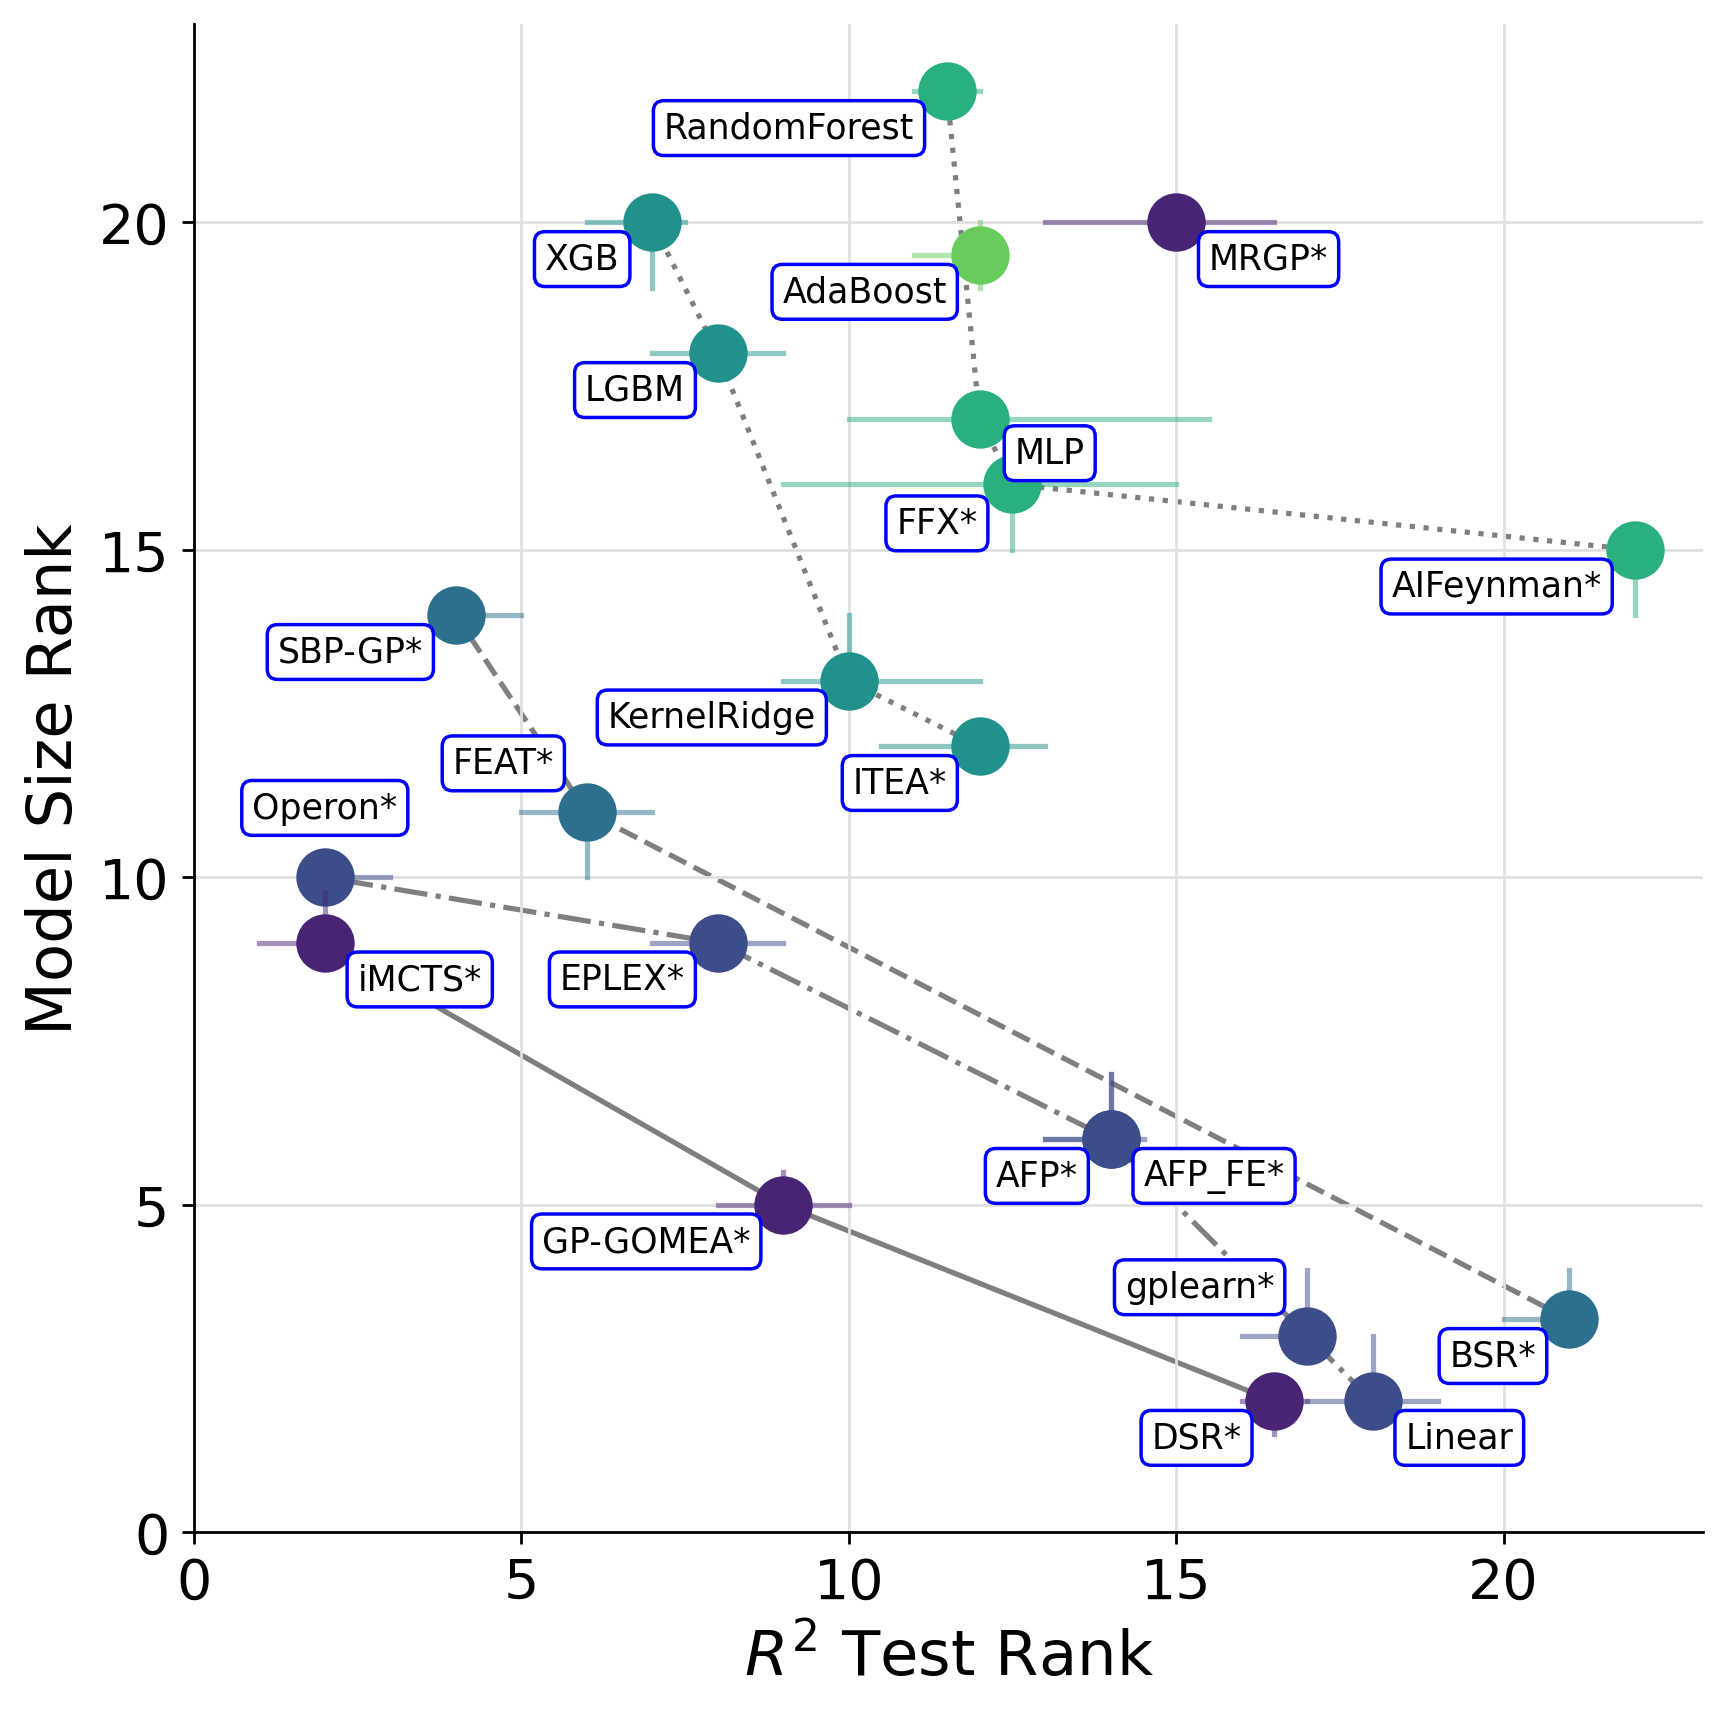
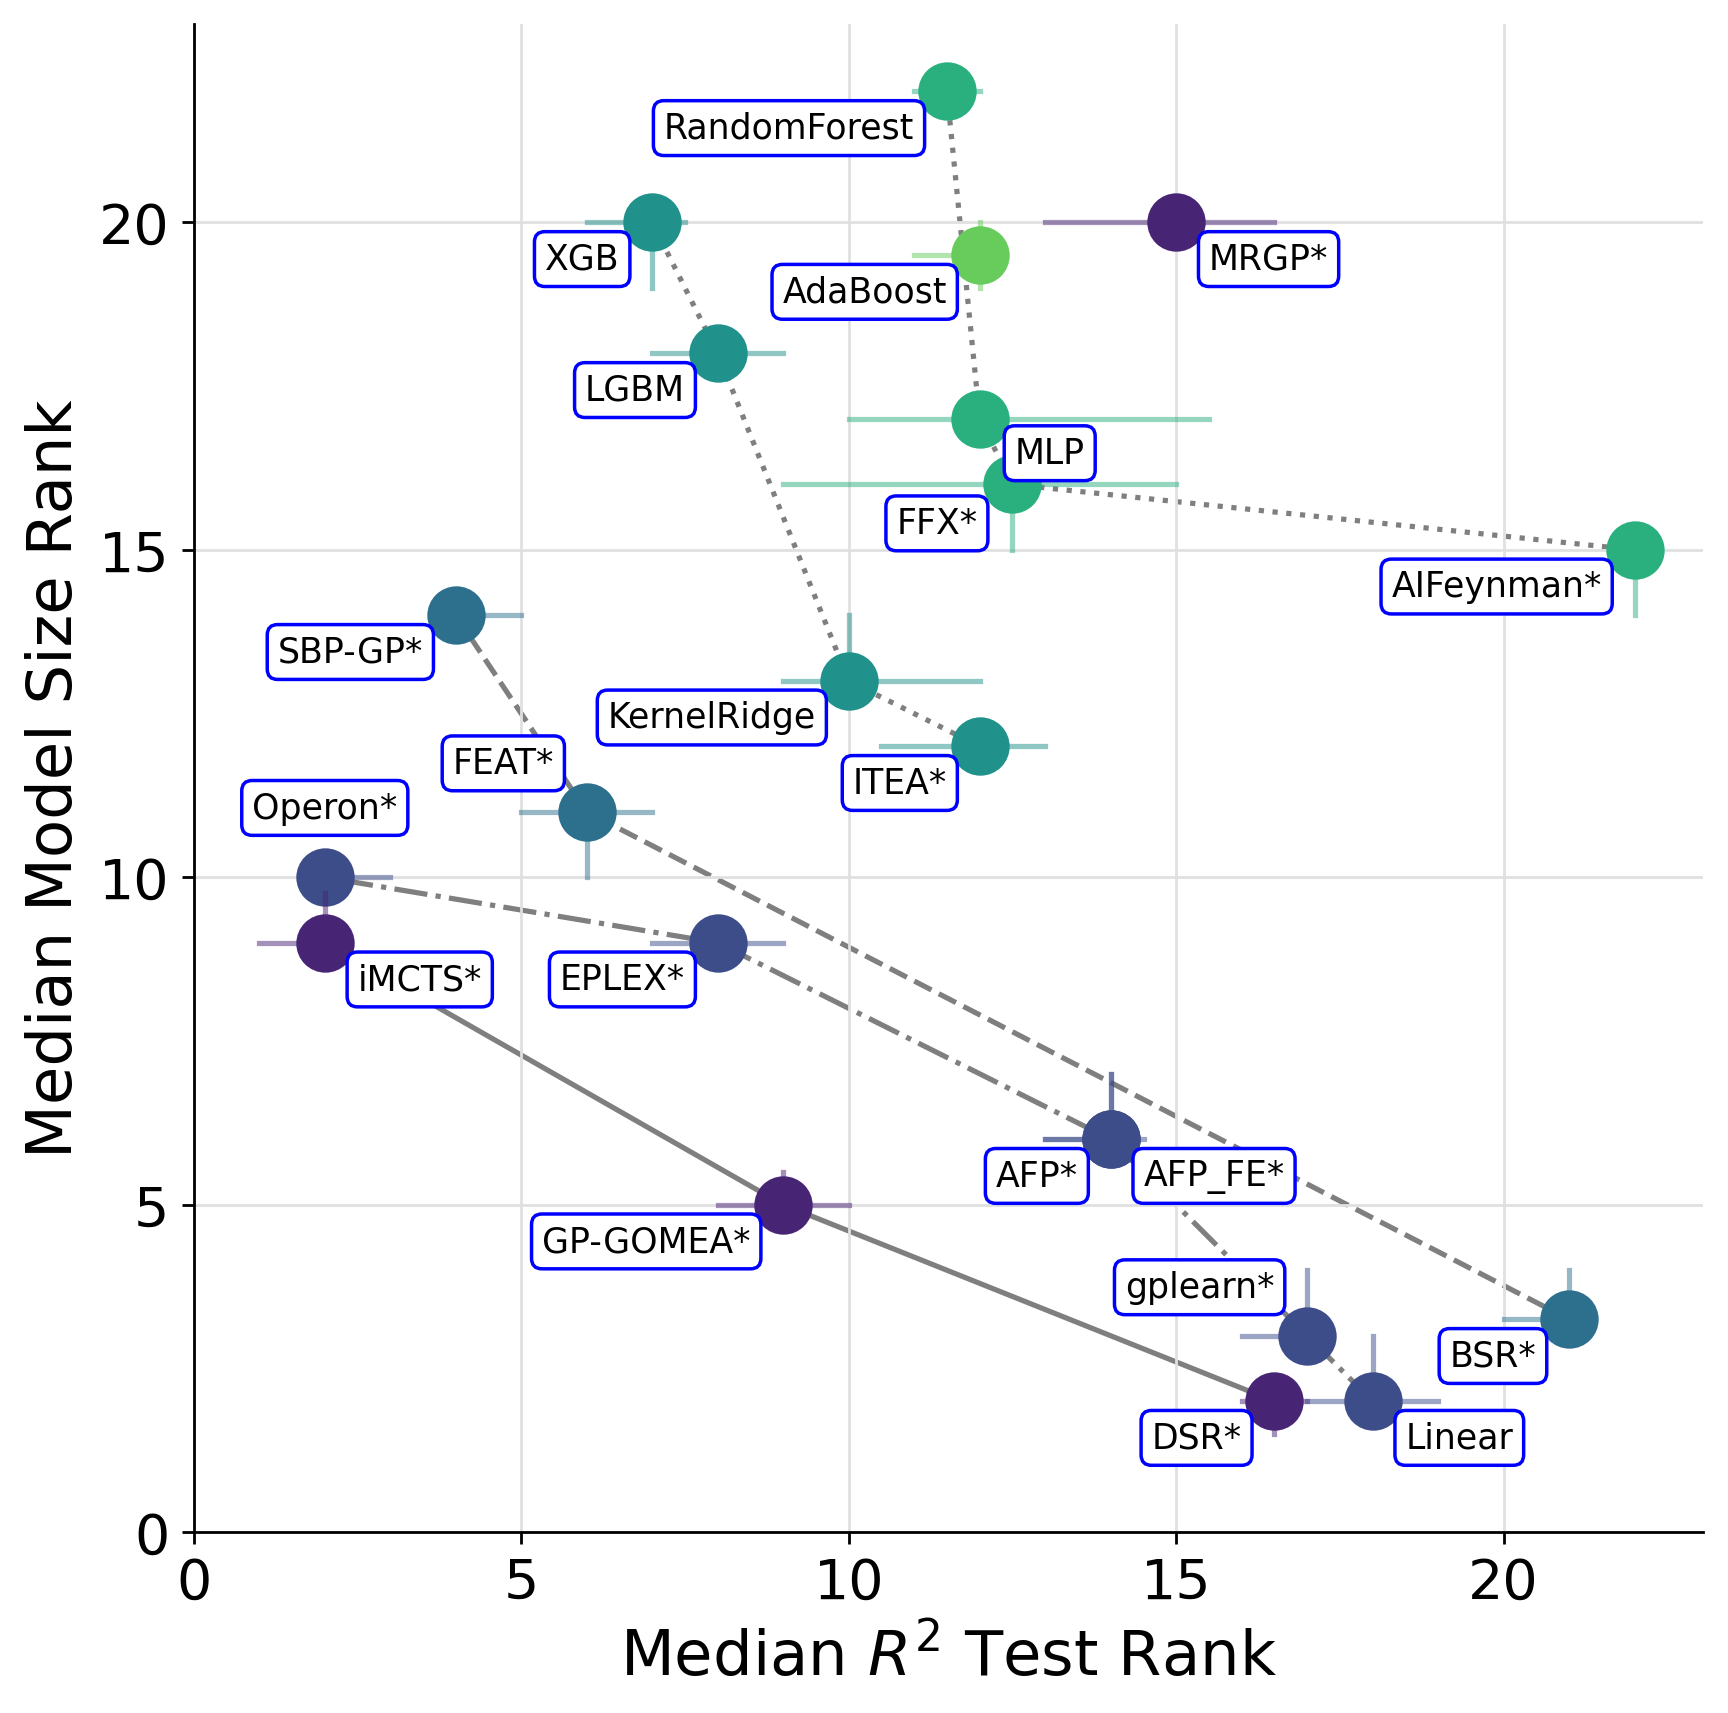
Clarify Pareto rank labels

Changed region(s): [[0.0, 0.2475, 0.0625, 0.6807], [0.3438, 0.9282, 0.75, 0.9901]]

diff --git a/imcts/benchmarks/plot.py b/imcts/benchmarks/plot.py
@@ -405,8 +405,8 @@ def save_pareto_rank(by_dataset: pd.DataFrame, fig_dir: Path) -> Path:
     ax.set_xticks([0, 5, 10, 15, 20])
     ax.set_yticks([0, 5, 10, 15, 20])
     ax.tick_params(labelsize=16)
-    ax.set_xlabel("$R^2$ Test Rank", fontsize=18)
-    ax.set_ylabel("Model Size Rank", fontsize=18)
+    ax.set_xlabel("Median $R^2$ Test Rank", fontsize=18)
+    ax.set_ylabel("Median Model Size Rank", fontsize=18)
     ax.grid(color="0.88")
     fig.tight_layout()
     path = fig_dir / "blackbox_pareto_rank.png"

diff --git a/README.md b/README.md
@@ -45,7 +45,9 @@ iMCTS is compared against all 22 SRBench BlackBox algorithms on 122 PMLB dataset
 
 <div align="center"><img src="assets/blackbox_pairgrid.png" width="600"/></div>
 
-Pareto rank — accuracy vs. simplicity trade-off:
+Pareto rank — accuracy vs. simplicity trade-off. The Pareto plot uses the
+median per-dataset rank on each axis; the summary table below reports mean
+per-dataset ranks.
 
 <div align="center"><img src="assets/blackbox_pareto_rank.png" width="350"/></div>
 
